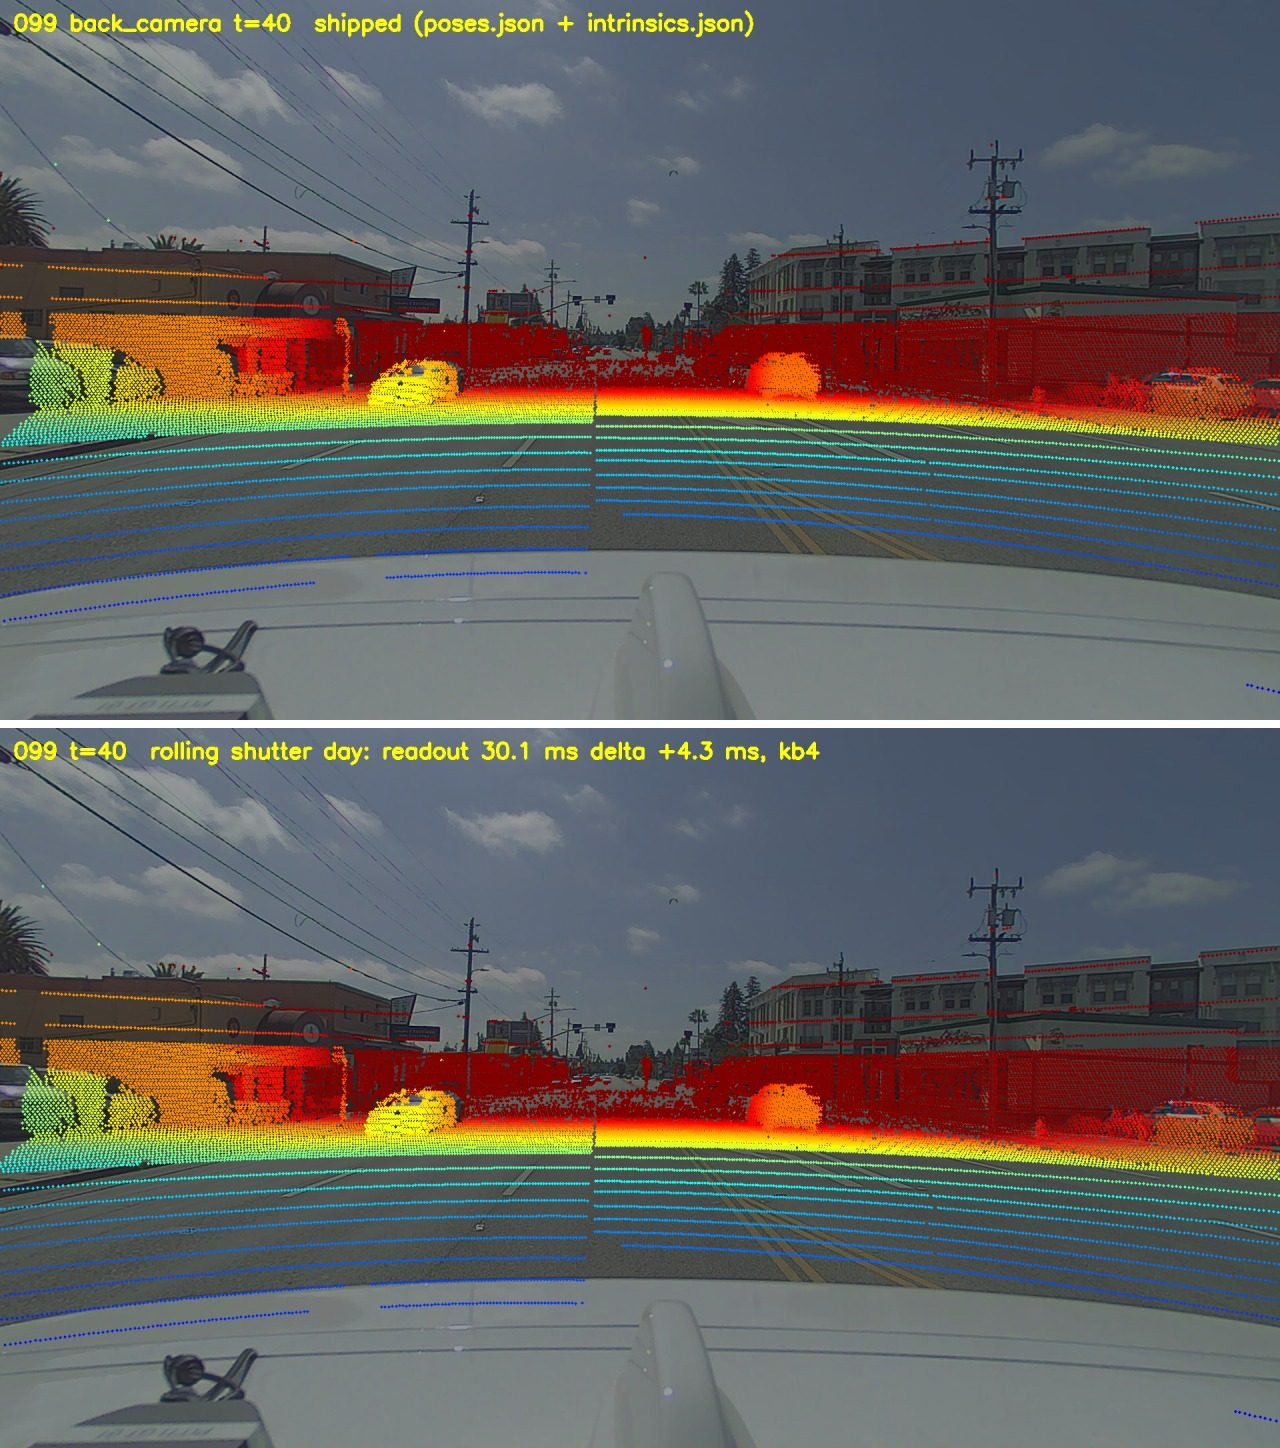
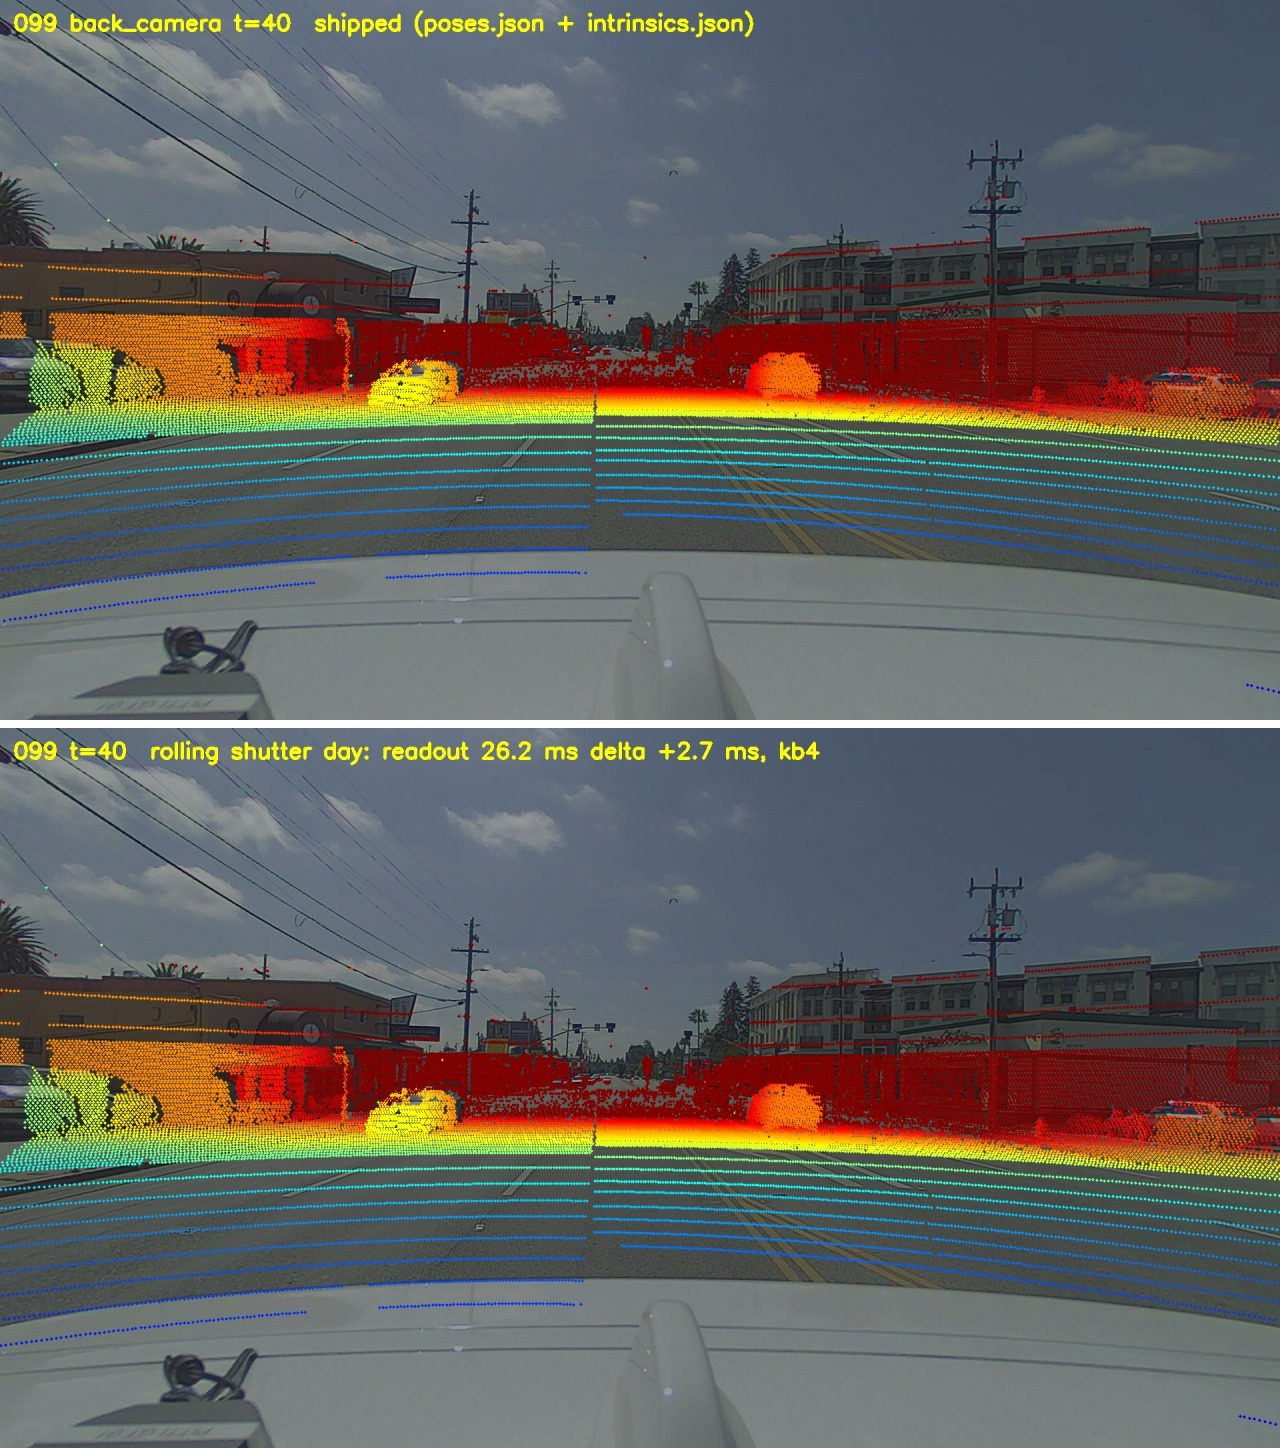
rs_params: latest values for all cameras and the day / dusk timing; images, GIF and pole zoom (smaller dots) re-rendered; README numbers updated

diff --git a/README.md b/README.md
@@ -81,7 +81,7 @@ What is actually known about the cameras is little:
   extrinsics, and why re-calibrating the extrinsics on moving data gives a different, speed-dependent answer.
 
 What we recovered by aligning with the LiDAR (the model below, values in `rs_calib/rs_params.json`): with the rows read out top to
-bottom, the projection fits when the bottom row is taken 4–14 ms after the timestamp (day / dusk / night) and the top row about
+bottom, the projection fits when the bottom row is taken 3–14 ms after the timestamp (day / dusk / night) and the top row about
 30 ms before the bottom row; at 19 m/s that is about 0.6 m of car motion between the top and the bottom of one image. The readout and the offset differ between the
 day, dusk and night recordings (auto exposure), the shutter timing jitters by roughly 1–2 ms from frame to frame, and the
 wide-angle cameras need small extrinsic corrections and a KB4 lens. This is a fit, not a specification; nothing in the dataset
@@ -164,8 +164,8 @@ image segments and LiDAR points, collected interactively, and one solver shared 
    - Huber loss (1 px), trust-region least squares with a forward-difference Jacobian in which each variable re-projects only the
      snapshots it affects (a camera's variables only that camera's points, a light group's timing only that group's scenes).
 4. **Iterate.** Solve a few iterations, look at the projection again, add snapshots where it still drifts (other scenes, speeds,
-   image rows, cameras), solve again. 190 objects in 22 scenes were used (84 day, 106 dusk; front 13, front_left 45,
-   front_right 36, left 35, right 49, back 12). The night timing has no snapshots and was set by eye only.
+   image rows, cameras), solve again. 199 objects in 23 scenes were used (84 day, 115 dusk; front 13, front_left 45,
+   front_right 36, left 35, right 58, back 12). The night timing has no snapshots and was set by eye only.
 
 The tool used for steps 1–4 (an interactive web page with the snapshot and the solve) is not part of this repository; the model,
 the parameters and the visualisation here are enough to use the result.
